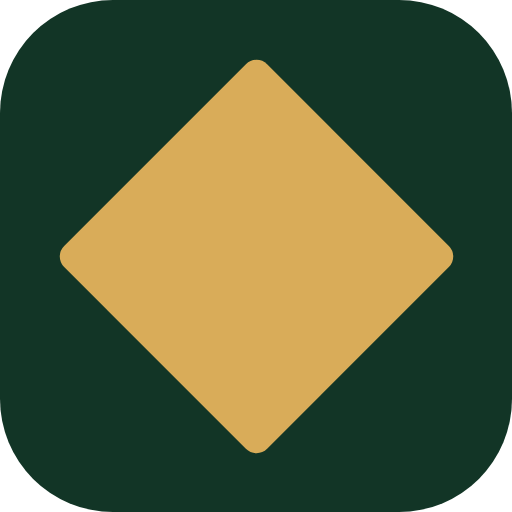
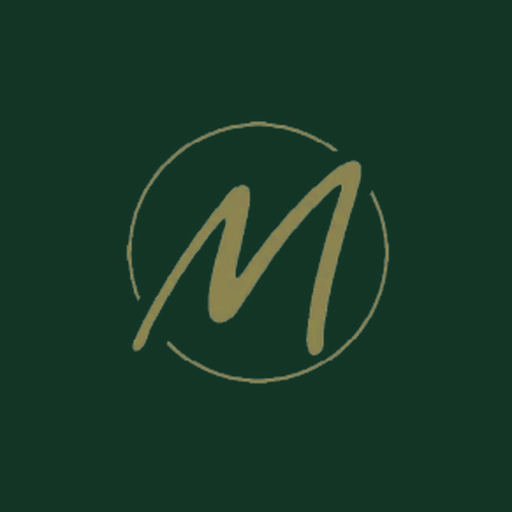
Match the Ledger's brand mark, in this app's own green
Both the PWA icons (icon-180/192/512/512-maskable) and the sidebar now
use the same brush-stroke "M" mark as the Estates Ledger, on this
app's felt green (#123526) instead of the Ledger's crimson - same mark
image, same icon composition/maskable safe-zone logic, only the
background colour differs. Previously the icons were a generic gold
diamond with no relation to the Ledger's actual branding.

Claude-Session: https://claude.ai/code/session_01AVcnwa2SwtnppQw79NBZKi

diff --git a/standalone/estate-pm.html b/standalone/estate-pm.html
@@ -180,7 +180,8 @@
   @media (max-width: 460px) {
     .stat-row { grid-template-columns: 1fr !important; }
   }
-  .nav-brand { padding: 6px 10px 18px; }
+  .nav-brand { padding: 6px 10px 18px; display: flex; align-items: center; gap: 10px; }
+  .nav-brand .brand-mark { width: 34px; height: 34px; flex: none; display: block; }
   .nav-brand .name { font-size: 14.5px; font-weight: 700; letter-spacing: 0.2px; }
   .nav-brand .sub { font-size: 11.5px; color: var(--felt-ink-muted); margin-top: 2px; }
   .nav-list { list-style: none; margin: 0; padding: 0; display: flex; flex-direction: column; gap: 2px; }
@@ -548,8 +549,11 @@
   <div class="nav-backdrop" id="navBackdrop"></div>
   <nav class="nav" id="nav">
     <div class="nav-brand">
-      <div class="name">Metropolitan Estates</div>
-      <div class="sub">Project &amp; Compliance Board</div>
[1 lines of base64/hex data omitted]
+      <div>
+        <div class="name">Metropolitan Estates</div>
+        <div class="sub">Project &amp; Compliance Board</div>
+      </div>
     </div>
     <ul class="nav-list" id="navList"></ul>
     <div class="nav-spacer"></div>

diff --git a/standalone/CLAUDE.md b/standalone/CLAUDE.md
@@ -227,6 +227,28 @@ spec compliance. If install confusion recurs after this fix, the actual fix is
 structural (separate subdomains, or a build that publishes this app outside the
 Ledger's scope), not another manifest field.
 
+## Branding — shares the Ledger's mark, this app's own colour
+
+The sidebar (`.nav-brand`) and the four `icon-*.png` files use the same brush-stroke
+"M" mark as the Estates Ledger (`src/ledger/assets/logos/mark_cutout.png` — a
+transparent cutout, gold-on-transparent, no other colour in it), not a separate mark
+drawn for this app. Only the **background** differs: `#123526`, this app's own felt
+green, in place of the Ledger's crimson (`#2B0A10`) — same composition as
+`src/ledger/make-icons.py` (identical size/fraction targets, identical maskable
+55%-safe-zone logic for the launcher-crop icon), just a different `BG` constant. There
+is no `make-icons.py` equivalent checked in for this app — the icons here were
+generated by a one-off script during that session, not by a repeatable build step
+(this file has no build step at all, by design). If the mark or the green needs to
+change again, regenerate from `mark_cutout.png` with fresh `BG`/fraction values rather
+than hand-editing the PNGs.
+
+The sidebar mark is the same source PNG downsized to 96px and inlined as a `data:`
+URI directly in `estate-pm.html` (`<img class="brand-mark" ...>` in `.nav-brand`) —
+not a separate file, since this file has no build step to inline one at deploy time
+the way the Ledger's `__MARK_LOGO__` placeholder does. `alt=""` is deliberate: it's
+decorative next to text that already says "Metropolitan Estates," so a screen reader
+shouldn't announce it twice.
+
 ## PWA update mechanism (`sw.js` + the update toast)
 
 `sw.js`'s cache name is a SHA-256 hash of `estate-pm.html`'s bytes (`hashCacheName()`),
